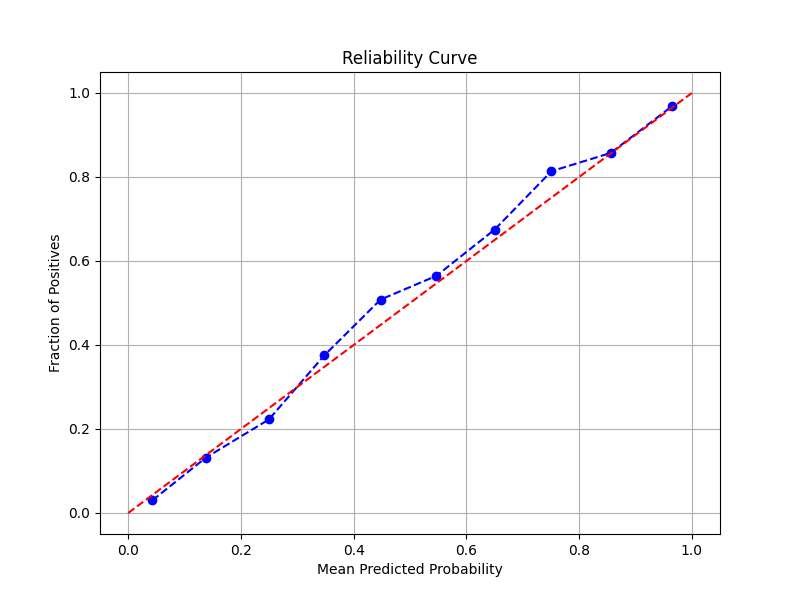
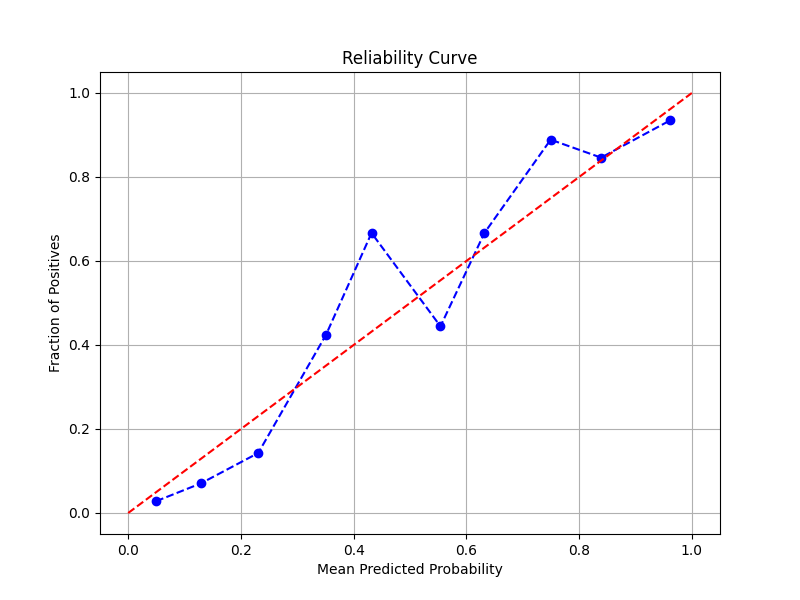
final graphs for Graphs_1D_Conv_LSTM_v8

diff --git a/plottingGraphs.py b/plottingGraphs.py
@@ -188,7 +188,7 @@ def plot_reliability_curve(model, X_test, y_test, class_index, modelName, n_bins
 
 
 startFile = 1
-endFile = 100
+endFile = 618
 file_count = 0
 expected_shape = (100, 24)
 expected_y_shape = (5,)
@@ -215,10 +215,10 @@ for filename in os.listdir(pkl_directory):
             training_data_for_pickle = pickle.load(file)
 
             # Extend the corresponding arrays with data from pickle files
-            X_train = np.concatenate((X_train, training_data_for_pickle['X_train']), axis=0)
-            y_train_encoded = np.concatenate((y_train_encoded, training_data_for_pickle['y_train_encoded']), axis=0)
-            X_valid = np.concatenate((X_valid, training_data_for_pickle['X_valid']), axis=0)
-            y_valid_encoded = np.concatenate((y_valid_encoded, training_data_for_pickle['y_valid_encoded']), axis=0)
+            # X_train = np.concatenate((X_train, training_data_for_pickle['X_train']), axis=0)
+            # y_train_encoded = np.concatenate((y_train_encoded, training_data_for_pickle['y_train_encoded']), axis=0)
+            # X_valid = np.concatenate((X_valid, training_data_for_pickle['X_valid']), axis=0)
+            # y_valid_encoded = np.concatenate((y_valid_encoded, training_data_for_pickle['y_valid_encoded']), axis=0)
             X_test = np.concatenate((X_test, training_data_for_pickle['X_test']), axis=0)
             y_test.append(training_data_for_pickle['y_test'])
 
@@ -229,7 +229,7 @@ print(f"Done loading games {startFile} to {endFile}")
 
 name = "1D_Conv_LSTM_v8"
 
-modelHistoryPklDirectory = "1D_Conv_LSTM_v8_histories"
+modelHistoryPklDirectory = f"{name}_histories"
 
 
 from keras.callbacks import History
@@ -269,10 +269,6 @@ if not os.path.exists(directory):
 plotLabelFreqAndPercentErr(combined_history.history,X_test,y_test,model,name)
 
 for class_index in mapping:
-    y_true_binary = []
-
-    for game in y_test:
-        y_true_binary.extend((game == class_index).astype(int))
 
     # Create and plot the reliability curve for the current class_index
     plot_reliability_curve(model, X_test, y_test, int(class_index), name)

diff --git a/Event.py b/Event.py
@@ -173,6 +173,7 @@ class Event:
 
     def show(self):
         fig, (ax1, ax2,ax3) = plt.subplots(3, 1, figsize=(8, 10), gridspec_kw={'height_ratios': [2, 1, 2]})
+        plt.subplots_adjust(hspace=0.3)
         court = plt.imread(r"court.png")
         ax1.imshow(court, zorder=0, extent=[Constant.X_MIN, Constant.X_MAX - Constant.DIFF,
                                             Constant.Y_MAX, Constant.Y_MIN])
@@ -183,7 +184,7 @@ class Event:
         ax2.set_ylim(0.0, 1.0)
         ax2.grid(True, axis='y')
         ax2.set_aspect('equal')
-        ax2.set_xlabel('Event Type')
+        # ax2.set_xlabel('Event Type')
         ax2.set_ylabel('Probability')
         ax2.set_title('Predicted Probabilities from LSTM')
 
@@ -217,8 +218,9 @@ class Event:
         ax3.set_xlabel('Time')
         ax3.set_ylabel('Expected points')
         ax3.set_title('Predicted Points during a Possession')
-
-        expected_points_text = ax3.annotate('', xy=(0.8, 1), color='black', fontsize=12, ha='center')
+        
+        # expected_points_text = ax3.annotate('', xy=(0.8, 1), color='black', fontsize=12, ha='center')
+        expected_points_text = fig.text(0.5, 0.05, "", ha='center', fontsize=12, color='black')
         # Animation
         anim = animation.FuncAnimation(
     fig, self.update_both,

diff --git a/training_data_processing_script.py b/training_data_processing_script.py
@@ -121,11 +121,16 @@ def getInputOutputData(datasetDirectoryVariable):
 if __name__ == "__main__":
 
     # Specify the range of games to train
-    startGameNumber = 1
+    startGameNumber = 13
     endGameNumber = 636
     grouping_size = 1  # Number of games to process in each group
-    
+
     results_data = []
+
+    directoryNamePkl = "training_history_groups_v2_Tis128"
+
+    if not os.path.exists(directoryNamePkl):
+        os.makedirs(directoryNamePkl)
 
     for i in range(startGameNumber, endGameNumber + 1, grouping_size):
         currentStartGameNumber = i

diff --git a/trainingScript2.py b/trainingScript2.py
@@ -119,7 +119,7 @@ def create1DConvLSTM():
     
     # LSTM layers
     model.add(LSTM(32, return_sequences=True))  # return_sequences=True for stacked LSTM
-    model.add(LSTM(32))  # You can add more LSTM layers if needed
+    model.add(LSTM(32)) 
     
     # Dense layers
     model.add(Dense(100, activation='relu'))
